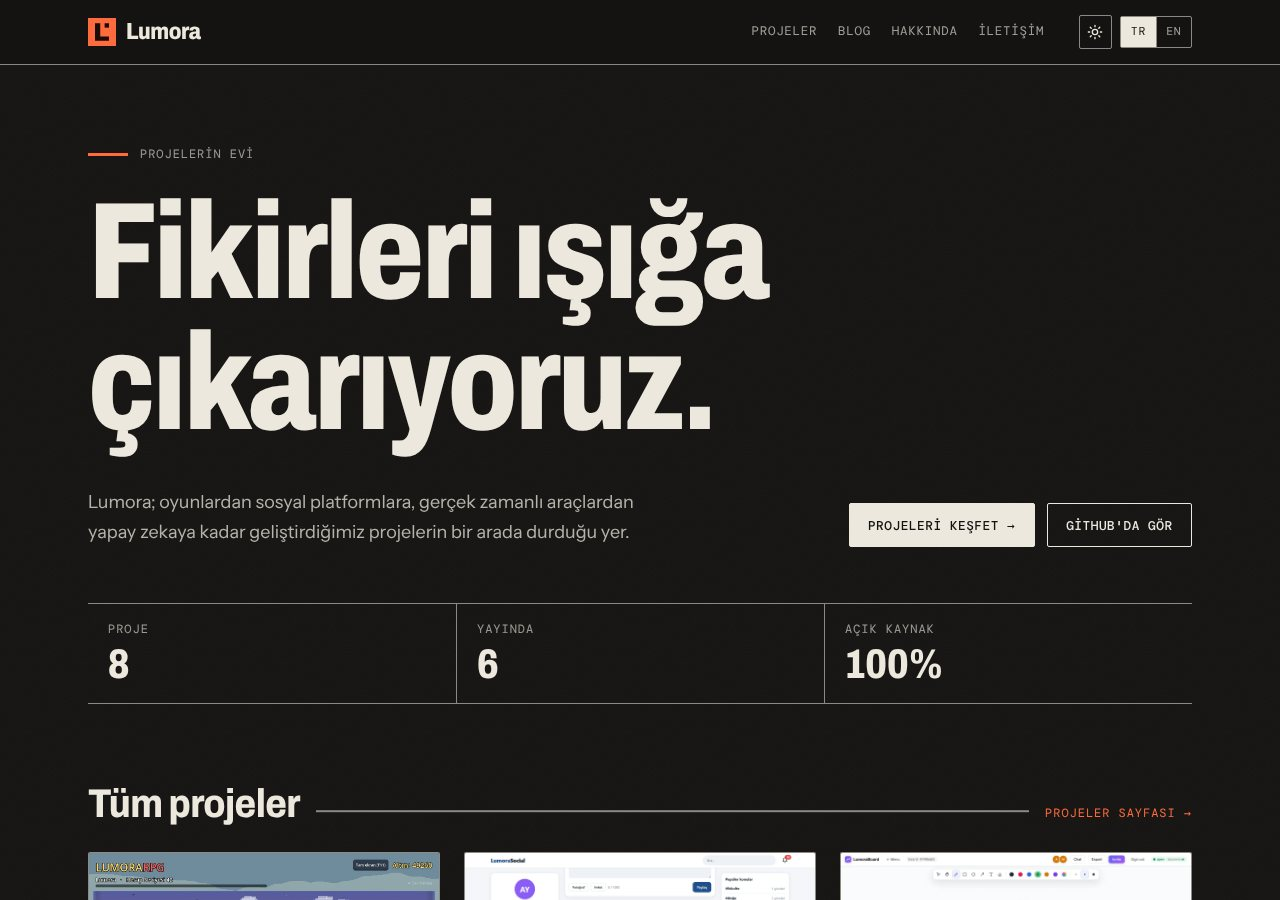
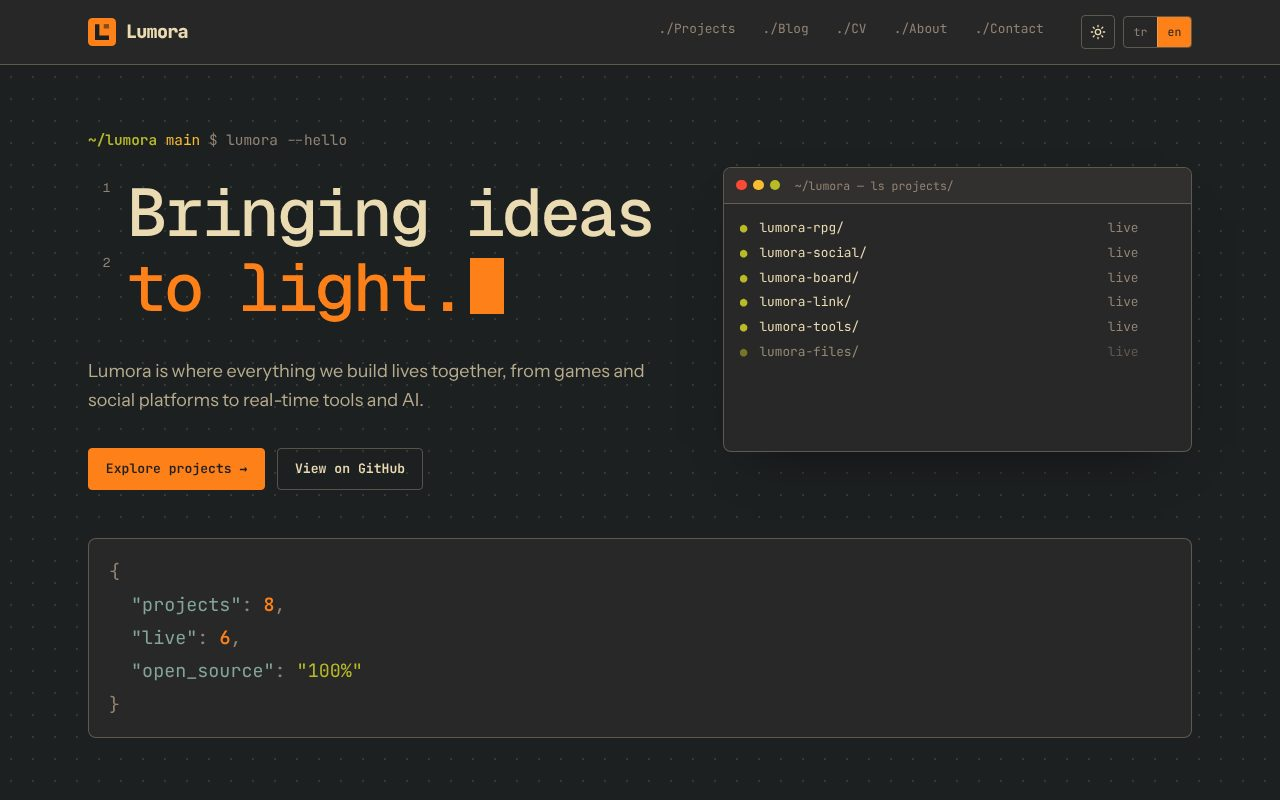
README: yeni tasarıma göre güncellendi, ekran görüntüleri yenilendi
Claude-Session: https://claude.ai/code/session_011kRt5ikZqjDYUqib8LYudj

diff --git a/README.md b/README.md
@@ -23,12 +23,17 @@ Lumora, geliştirdiğimiz projelerin bir arada durduğu ana sitedir. Her projeni
 ## Ekran görüntüleri
 
 <p align="center">
-  <img src="docs/screenshots/anasayfa.jpg" alt="Ana sayfa: tanıtım ve öne çıkan projeler" width="100%">
+  <img src="docs/screenshots/anasayfa.jpg" alt="Ana sayfa: terminal temalı tanıtım, proje listesi ve istatistikler" width="100%">
 </p>
 
 <p align="center">
   <img src="docs/screenshots/projeler.jpg" alt="Projeler: kategori ve duruma göre süzülebilen liste" width="49%">
   <img src="docs/screenshots/proje-detay.jpg" alt="Proje sayfası: açıklama, özellikler ve teknolojiler" width="49%">
+</p>
+
+<p align="center">
+  <img src="docs/screenshots/cv.jpg" alt="CV sayfası: teknolojiler ve projeler otomatik gelir" width="49%">
+  <img src="docs/screenshots/giris.jpg" alt="Yönetici giriş sayfası" width="49%">
 </p>
 
 <p align="center">
@@ -40,12 +45,15 @@ Lumora, geliştirdiğimiz projelerin bir arada durduğu ana sitedir. Her projeni
   <img src="docs/screenshots/mobil.jpg" alt="Telefonda ana sayfa" width="30%">
 </p>
 
-<p align="center"><sub>Ana sayfa · Projeler · Proje sayfası · Açık tema · İngilizce sürüm · Mobil görünüm</sub></p>
+<p align="center"><sub>Ana sayfa · Projeler · Proje sayfası · CV · Yönetici girişi · Açık tema · İngilizce sürüm · Mobil görünüm</sub></p>
 
 ## Neler var
 
 - **Projeler:** LumoraRPG, LumoraSocial, LumoraBoard, LumoraLink, LumoraTools ve LumoraFiles yayında; Lumora Forge ve Lumora Academy geliştiriliyor.
 - **İki dil:** Türkçe `/`, İngilizce `/en/`. Sağ üstteki TR | EN düğmesi aynı sayfanın diğer dilini açar, seçim hatırlanır ve ilk ziyarette tarayıcı diline göre yönlendirilir.
+- **Yazılımcı sitesi görünümü:** terminal temalı ana sayfa (yazılan komut, satır numaralı Geist Mono başlık, proje paneli), kod yorumu tarzı bölüm başlıkları, durum çubuğu altlık ve CSS ile yapılmış animasyonlar (`prefers-reduced-motion` açıkken kapanır).
+- **CV sayfası:** `/cv/` ve `/en/cv/`; teknolojiler ve projeler proje dosyalarından otomatik gelir, deneyim ve eğitim `src/data/cv.ts` içinde doldurulur (boş bölümler görünmez). "PDF olarak kaydet" düğmesi yazdırma görünümünü kullanır.
+- **Yönetici giriş sayfası:** `/giris/` ve `/en/login/`; GitHub ile giriş, yazı editörüne ve çıkışa kısayol.
 - **Koyu ve açık tema:** sağ üstteki düğmeyle değişir, seçim tarayıcıda saklanır.
 - **Blog:** duyurular ve sürüm notları için, yazılar Markdown dosyasıdır.
 - **GitHub bilgileri:** yıldız, son güncelleme ve son sürüm derleme sırasında çekilir; günlük otomatik yeniden derleme ile güncel kalır.
@@ -95,7 +103,7 @@ Yazılar `/blog/<adres>/` ve `/en/blog/<adres>/` altında yayınlanır, ana sayf
 
 ## Tema
 
-Renkler `src/styles/global.css` başındaki iki blokta durur (koyu: `html`, açık: `html[data-theme='light']`); Tailwind sınıfları bu değişkenlere bağlıdır. Vurgu rengini değiştirmek için iki blokta `--brand` ve `--brand-fg` yeterlidir. Tema ilk ziyarette cihazın temasını izler, seçim tarayıcıda saklanır.
+Renkler `src/styles/global.css` başındaki iki blokta durur (koyu: `html`, açık: `html[data-theme='light']`); Tailwind sınıfları bu değişkenlere bağlıdır. Vurgu rengini değiştirmek için iki blokta `--brand` ve `--brand-fg` yeterlidir. Yazı tipleri siteden sunulur: JetBrains Mono (genel metin ve kod) ve Geist Mono (ana başlık). Tema ilk ziyarette cihazın temasını izler, seçim tarayıcıda saklanır.
 
 ## Yayına alma (Cloudflare Pages, ücretsiz)
 
@@ -121,7 +129,7 @@ Cloudflare'de projeyi aç, **Metrics → Web Analytics → Enable** de. Kod değ
 
 ## Yönetici girişi ve öne çıkarma
 
-Site sahibi GitHub hesabıyla girip projeleri yıldızlayarak ana sayfanın en üstündeki "Öne çıkan projeler" bölümünü belirleyebilir; altında her zaman "Tüm projeler" bölümü durur. Alt bilgideki **Yönetici girişi** bağlantısı GitHub OAuth ile giriş yaptırır; yalnızca `ADMIN_LOGIN` hesabı (varsayılan `highlvmami`) yetkilidir. Giriş yapınca kartların köşesinde ☆/★ düğmesi çıkar; seçim Cloudflare KV'ye yazılır ve herkese açık ana sayfa bu listeyi okur. Hiç favori seçilmemişse üstteki bölüm görünmez.
+Site sahibi GitHub hesabıyla girip projeleri yıldızlayarak ana sayfanın en üstündeki "Öne çıkan projeler" bölümünü belirleyebilir; altında her zaman "Tüm projeler" bölümü durur. Alt bilgideki **Yönetici girişi** bağlantısı `/giris/` sayfasını açar, oradaki düğme GitHub OAuth ile giriş yaptırır; yalnızca `ADMIN_LOGIN` hesabı (varsayılan `highlvmami`) yetkilidir. Giriş yapınca kartların köşesinde ☆/★ düğmesi çıkar; seçim Cloudflare KV'ye yazılır ve herkese açık ana sayfa bu listeyi okur. Hiç favori seçilmemişse üstteki bölüm görünmez.
 
 Kod `functions/` altındaki Cloudflare Pages Functions'tır (`/api/auth/*`, `/api/favorites`). Çalışması için Cloudflare'de bir kerelik kurulum gerekir:
 
@@ -145,6 +153,7 @@ Giriş yapınca blog sayfasında **+ Yeni yazı** düğmesi çıkar. Editörde b
 | `src/pages/` | Türkçe sayfalar; `src/pages/en/` altında İngilizce karşılıkları |
 | `src/views/` | İki dilin paylaştığı sayfa gövdeleri |
 | `src/components/`, `src/layouts/` | Başlık, alt bilgi, kartlar, ortak sayfa iskeleti |
+| `src/data/` | CV bilgileri (`cv.ts`) |
 | `src/lib/` | Arayüz metinleri, GitHub verisi, proje ve yazı yardımcıları |
 | `functions/` | Giriş ve öne çıkarma API'si (Cloudflare Pages Functions) |
 | `public/` | Logo, görseller, `robots.txt`, güvenlik başlıkları |

diff --git a/README.en.md b/README.en.md
@@ -23,12 +23,17 @@ Lumora is the main site where our projects live together. Each project has its o
 ## Screenshots
 
 <p align="center">
-  <img src="docs/screenshots/anasayfa.jpg" alt="Home: intro and featured projects" width="100%">
+  <img src="docs/screenshots/anasayfa.jpg" alt="Home: terminal-style intro, project list and stats" width="100%">
 </p>
 
 <p align="center">
   <img src="docs/screenshots/projeler.jpg" alt="Projects: a list filterable by category and status" width="49%">
   <img src="docs/screenshots/proje-detay.jpg" alt="Project page: description, features and tech" width="49%">
+</p>
+
+<p align="center">
+  <img src="docs/screenshots/cv.jpg" alt="CV page: technologies and projects fill in automatically" width="49%">
+  <img src="docs/screenshots/giris.jpg" alt="Admin sign-in page" width="49%">
 </p>
 
 <p align="center">
@@ -40,12 +45,15 @@ Lumora is the main site where our projects live together. Each project has its o
   <img src="docs/screenshots/mobil.jpg" alt="Home page on a phone" width="30%">
 </p>
 
-<p align="center"><sub>Ana sayfa · Projeler · Proje sayfası · Light theme · English version · Mobil görünüm</sub></p>
+<p align="center"><sub>Home · Projects · Project page · CV · Admin sign-in · Light theme · English version · Mobile</sub></p>
 
 ## What's inside
 
 - **Projects:** LumoraRPG, LumoraSocial, LumoraBoard, LumoraLink, LumoraTools and LumoraFiles are live; Lumora Forge and Lumora Academy are in development.
 - **Two languages:** Turkish at `/`, English at `/en/`. The TR | EN switch in the top right opens the same page in the other language, the choice is remembered, and first-time visitors are redirected by browser language.
+- **Developer-site look:** a terminal-style home page (typed command, line-numbered Geist Mono heading, project panel), code-comment section headings, a status-bar footer and CSS-only animations (disabled under `prefers-reduced-motion`).
+- **CV page:** `/cv/` and `/en/cv/`; technologies and projects come from the project files automatically, experience and education are filled in `src/data/cv.ts` (empty sections stay hidden). The "Save as PDF" button uses the print layout.
+- **Admin sign-in page:** `/giris/` and `/en/login/`; GitHub sign-in with shortcuts to the post editor and sign-out.
 - **Dark and light theme:** toggled from the top right, the choice is stored in the browser.
 - **Blog:** for announcements and release notes; posts are Markdown files.
 - **GitHub data:** stars, last update and latest release are fetched at build time and kept fresh by a daily automatic rebuild.
@@ -95,7 +103,7 @@ Posts are published under `/blog/<slug>/` and `/en/blog/<slug>/`, and the latest
 
 ## Theme
 
-Colors live in two blocks at the top of `src/styles/global.css` (dark: `html`, light: `html[data-theme='light']`); the Tailwind classes are bound to those variables. To change the accent, edit `--brand` and `--brand-fg` in both blocks. The theme follows the device on the first visit and the choice is remembered in the browser.
+Colors live in the two blocks at the top of `src/styles/global.css` (dark: `html`, light: `html[data-theme='light']`); Tailwind classes are bound to these variables. To change the accent color, `--brand` and `--brand-fg` in both blocks are enough. Fonts are self-hosted: JetBrains Mono (body and code) and Geist Mono (the main heading). The theme follows the device on the first visit and the choice is stored in the browser.
 
 ## Deploying (Cloudflare Pages, free)
 
@@ -121,7 +129,7 @@ Set up HTTP monitors for the site and the projects' live addresses on [UptimeRob
 
 ## Admin sign-in and featuring
 
-The site owner can sign in with GitHub and star projects to choose the "Featured projects" section at the very top of the home page; an "All projects" section always sits below it. The **Admin sign-in** link in the footer starts GitHub OAuth; only the `ADMIN_LOGIN` account (default `highlvmami`) is allowed. Once signed in, a ☆/★ button appears on the cards; the choice is written to Cloudflare KV and the public home page reads it. If nothing is starred, the top section is hidden.
+The site owner can sign in with GitHub and star projects to choose the "Featured projects" section at the very top of the home page; an "All projects" section always sits below it. The **Admin sign-in** link in the footer opens the `/en/login/` page, whose button starts GitHub OAuth; only the `ADMIN_LOGIN` account (default `highlvmami`) is allowed. Once signed in, a ☆/★ button appears on the cards; the choice is written to Cloudflare KV and the public home page reads it. If nothing is starred, the top section is hidden.
 
 The code is Cloudflare Pages Functions under `functions/` (`/api/auth/*`, `/api/favorites`). One-time setup in Cloudflare:
 
@@ -143,6 +151,7 @@ Once signed in, a **+ New post** button appears on the blog page. The editor tak
 | `src/pages/` | Turkish pages; English counterparts under `src/pages/en/` |
 | `src/views/` | Page bodies shared by both languages |
 | `src/components/`, `src/layouts/` | Header, footer, cards, shared page shell |
+| `src/data/` | CV data (`cv.ts`) |
 | `src/lib/` | UI strings, GitHub data, project and post helpers |
 | `functions/` | Sign-in and featuring API (Cloudflare Pages Functions) |
 | `public/` | Logo, images, `robots.txt`, security headers |
